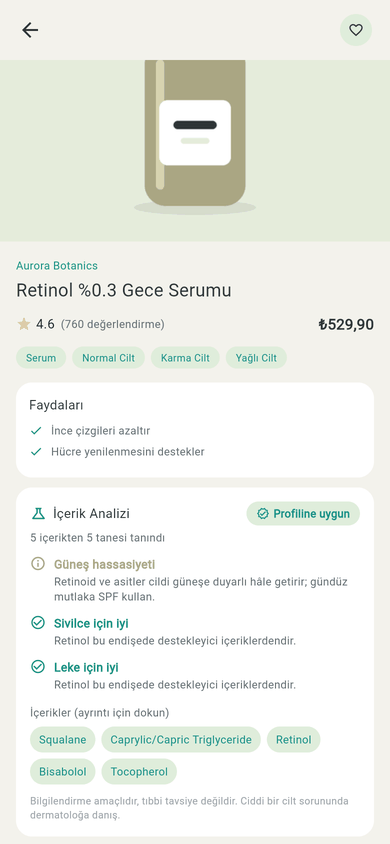
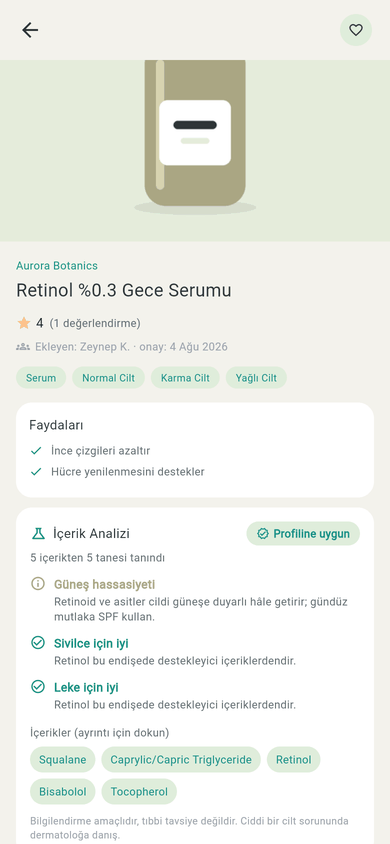
docs: describe the community product database; refresh screenshots
The README now says the app sells nothing, the catalog is built by users and
approved by the team in the in-app queue, and ratings come only from real
reviews. Screenshots no longer show prices or shop badges.

Claude-Session: https://claude.ai/code/session_017ibmEr9B5yaDWFsya6NTTs

diff --git a/README.md b/README.md
@@ -8,7 +8,9 @@
 
 **Kişisel cilt bakım asistanı.** Ürünlerinin içerik listesini cilt profiline göre
 yorumlar, aynı akşam kullanılmaması gereken ürünleri rutininde yakalar, açılan
-ürünlerin bozulma tarihini hatırlatır.
+ürünlerin bozulma tarihini hatırlatır. Ürün satmaz: katalog, kullanıcıların eklediği
+ve ekibin onayladığı ürünlerden oluşan **topluluk veritabanıdır**; bilgiyi kullanıcı
+yorumları tamamlar.
 
 Cilt bakımında sorun genelde ürünün kendisi değil, birlikte nasıl kullanıldığıdır:
 retinol ile peeling tonik aynı akşam sürülür, hassas cilde parfümlü serum alınır,
@@ -50,11 +52,17 @@ kullanıcı fark etmeden önce gösterir.
   zil simgesinde rozetle görünür.
 - **Ürün dolabı:** kullanılanlar, alınacaklar, bitenler; kalan miktar, puan, not,
   "tekrar alır mıyım", bitenleri paylaşma.
-- **Ürün önerisi ve yönetici onayı:** katalogda olmayan ürün (fotoğraf, içerik
-  listesi, barkod) önerilir; onaylanana kadar yalnızca öneren görür. Reddedilirse
-  gerekçesi öneren kişiye gösterilir.
-- **Yorumlar:** ürün başına tek yorum (ikincisi günceller), puan ortalaması
-  katalog puanıyla birleşir.
+- **Topluluk ürün veritabanı:** Ücretli ve kapsamlı bir kozmetik API'si olmadığı
+  için ürünleri kullanıcılar ekler (fotoğraf, içerik listesi, barkod, cilt tipleri).
+  Öneri, ekip onaylayana kadar yalnızca ekleyene görünür; aynı ad/marka ya da barkod
+  ikinci kez eklenemez. Ekip, uygulama içindeki **onay kuyruğundan** fotoğrafı,
+  bilgileri ve kaç içeriğin tanındığını görüp onaylar ya da hazır/özel bir gerekçeyle
+  reddeder. Ekleyen kişiye sonuç zil simgesinden bildirilir; reddedilen öneri
+  düzeltilip yeniden gönderilebilir. Ürün sayfasında "Ekleyen: Zeynep K." yazar,
+  yeni onaylananlar "Yeni" etiketi alır.
+- **Yorumlar:** ürün başına tek yorum (ikincisi günceller). Puanlar yalnızca gerçek
+  yorumlardan hesaplanır; yorumu olmayan ürün "Henüz değerlendirme yok" der. Fiyat,
+  "çok satan" gibi mağaza ögeleri yok.
 - **İki çalışma modu:** varsayılan **cihaz modu** her şeyi tarayıcıda/telefonda
   tutar (demo böyle çalışır). `API_URL` verilirse **sunucu modu**: hesap, profil,
   katalog, öneriler ve yorumlar FastAPI sunucusundan gelir.
@@ -137,8 +145,9 @@ cd app
 flutter run -d chrome --web-port 8080 --dart-define=API_URL=http://localhost:8000
 ```
 
-Yönetici, önerileri `http://localhost:8000/docs` üzerinden onaylar ya da reddeder
-(`/admin/submissions`).
+Yönetici hesabıyla girildiğinde profilde **Onay Bekleyen Ürünler** görünür (API'de
+`/admin/submissions`). Cihaz modundaki demo hesabı, akışın tamamı denenebilsin diye
+ekip yetkisiyle açılır; sunucudaki demo hesabı ise sıradan kullanıcıdır.
 
 ### Demo kataloğu
 
@@ -154,7 +163,7 @@ cd app && dart run tool/export_demo_catalog.dart
 | | Kapsam |
 |---|---|
 | **Uygulama** (`flutter test`) | içerik eşleştirme ve analiz kuralları, rutin danışmanı, hatırlatmalar (PAO / SKT, ay sonu taşması), kalıcılık ve kullanıcı ayrımı, kimlik doğrulama, sahte sunucuyla sunucu modu (token yenileme, çevrimdışı yorum kuyruğu, yarış durumu), demo / kayıt / karşılama akışları, **320 px, 390 px ve 1280 px'te bütün ana ekranlarda taşma taraması** |
-| **Sunucu** (`pytest`) | kayıt/giriş, token dönüşü ve aile iptali, hız sınırları, yetki ve görünürlük, görsel doğrulama, onay/ret, yorumlar ve puan, hesap silme, güvenlik başlıkları, Docker duman testi; uygulamadaki seçenek listeleriyle **sözleşme testi** · kapsam ~%99 (CI alt sınırı %90) |
+| **Sunucu** (`pytest`) | kayıt/giriş, token dönüşü ve aile iptali, hız sınırları, yetki ve görünürlük, görsel doğrulama, onay/ret, yorumlardan hesaplanan puan, hesap silme, güvenlik başlıkları, Docker duman testi; uygulamadaki seçenek listeleriyle **sözleşme testi** · kapsam ~%99 (CI alt sınırı %90) |
 
 CI her gönderimde: `dart format`, `flutter analyze`, testler, web derlemesi; `ruff`,
 `pytest --cov`, Docker imajı + duman testi; ikisi de geçerse GitHub Pages'e yayın.
@@ -187,9 +196,11 @@ FastAPI backend. It analyses a product's INCI list against the user's skin profi
 (allergens, fragrance on sensitive skin, drying alcohol, comedogenic ingredients,
 helpful actives), flags routine conflicts such as a retinoid and an acid on the same
 evening (only on the weekdays they overlap), and reminds users when an opened
-product passes its period-after-opening or printed expiry date. The backend provides
-accounts with argon2 and rotating refresh tokens (reuse detection revokes the login
-family), a catalog with admin-moderated user submissions, and reviews. The app runs
+product passes its period-after-opening or printed expiry date. It sells nothing: the
+catalog is a community database built from user submissions that the team approves
+in an in-app review queue, and ratings come only from real reviews. The backend
+provides accounts with argon2 and rotating refresh tokens (reuse detection revokes
+the login family), the moderated catalog and reviews. The app runs
 fully on-device by default (the GitHub Pages demo) or against the API with
 `--dart-define=API_URL=...`. CI runs format, analysis, Flutter and pytest suites, a
 layout overflow scan at 320/390/1280 px, a Docker smoke test, and deploys the web build.
